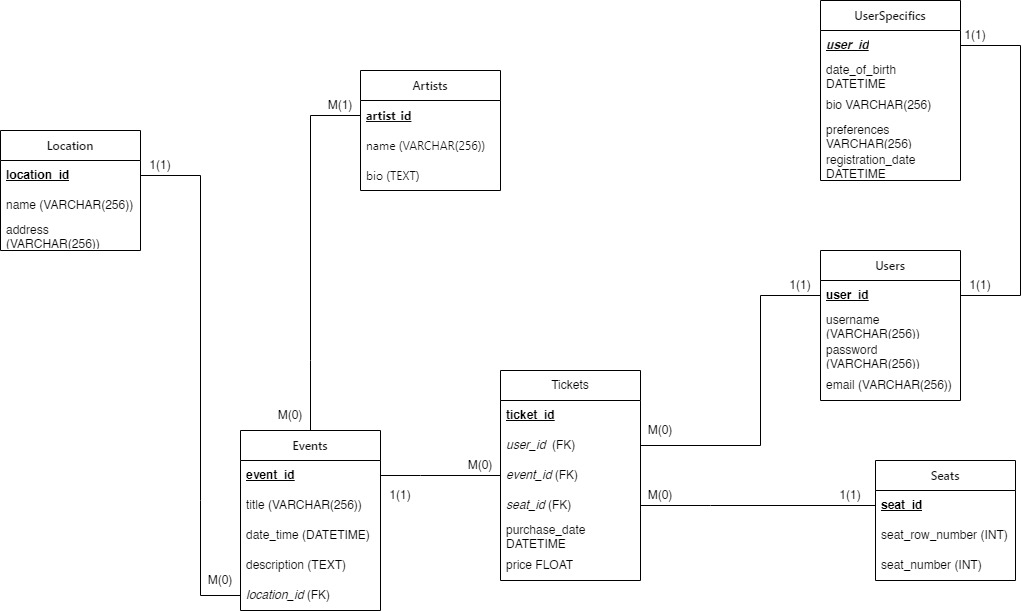
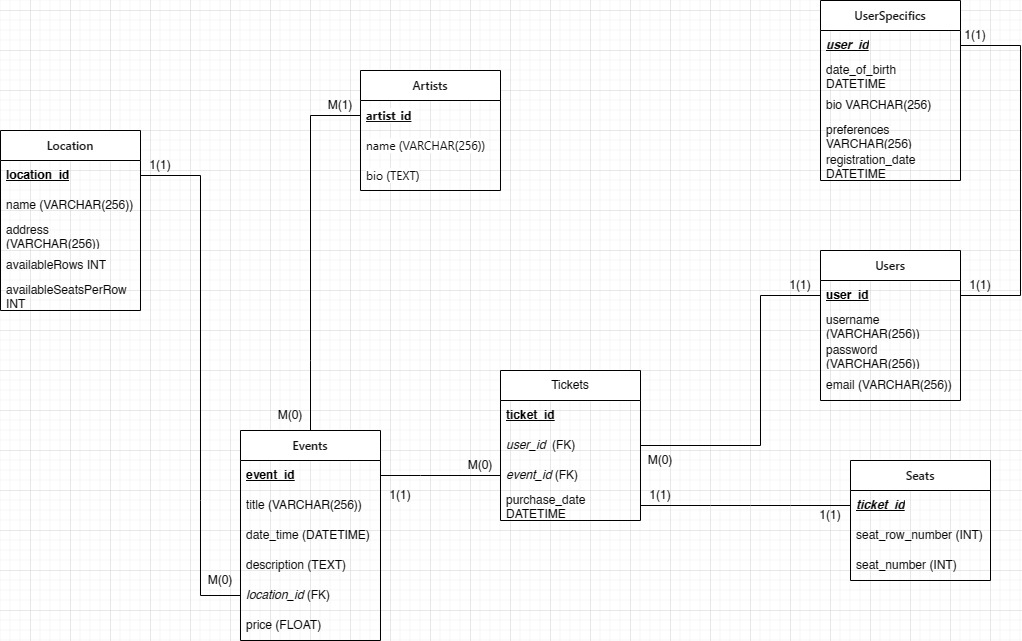
Ticket ordering for events

diff --git a/src/main/java/com/fmi/bookingshow/service/TicketService.java b/src/main/java/com/fmi/bookingshow/service/TicketService.java
@@ -1,0 +1,79 @@
+package com.fmi.bookingshow.service;
+
+import com.fmi.bookingshow.exceptions.TicketOrderException;
+import com.fmi.bookingshow.model.*;
+import com.fmi.bookingshow.repository.EventRepository;
+import com.fmi.bookingshow.repository.SeatRepository;
+import com.fmi.bookingshow.repository.TicketRepository;
+import com.fmi.bookingshow.repository.UserRepository;
+import org.springframework.stereotype.Service;
+
+import java.util.Date;
+
+@Service
+public class TicketService {
+    private final TicketRepository ticketRepository;
+    private final UserRepository userRepository;
+    private final EventRepository eventRepository;
+    private final SeatRepository seatRepository;
+
+    public TicketService(TicketRepository ticketRepository,
+                         EventRepository eventRepository,
+                         SeatRepository seatRepository,
+                         UserRepository userRepository) {
+        this.ticketRepository = ticketRepository;
+        this.eventRepository = eventRepository;
+        this.seatRepository = seatRepository;
+        this.userRepository = userRepository;
+    }
+
+    public TicketEntity orderTicketForEvent(long userId, long eventId, int seatRow, int seatNumber) throws TicketOrderException {
+        UserEntity user = userRepository.findByUserId(userId).orElse(null);
+        if (user == null) {
+            throw new TicketOrderException("User not found");
+        }
+
+        EventEntity event = eventRepository.findByEventId(eventId).orElse(null);
+        if (event == null) {
+            throw new TicketOrderException("Event not found");
+        }
+
+        // location validation (seat must be inside location limits)
+        LocationEntity location = event.getLocation();
+        if (seatRow > location.getAvailableRows()
+                || seatRow < 0
+                || seatNumber > location.getAvailableSeatsPerRow()
+                || seatNumber < 0) {
+            throw new TicketOrderException("Invalid seat data provided");
+        }
+
+        TicketEntity ticketWithSameSeat = event.getTickets()
+                .stream()
+                .filter(ticket ->
+                        ticket.getSeat().getSeatNumber() == seatNumber
+                                && ticket.getSeat().getSeatRowNumber() == seatRow
+                )
+                .findFirst()
+                .orElse(null);
+
+        if (ticketWithSameSeat != null) {
+            throw new TicketOrderException("Seat already purchased");
+        }
+
+        SeatEntity seatEntity = seatRepository.save(
+                new SeatEntity(
+                        seatRow,
+                        seatNumber
+                )
+        );
+
+        return ticketRepository.save(
+                new TicketEntity(
+                        user,
+                        seatEntity,
+                        event,
+                        new Date()
+                )
+        );
+    }
+}

diff --git a/src/main/java/com/fmi/bookingshow/service/UserService.java b/src/main/java/com/fmi/bookingshow/service/UserService.java
@@ -5,7 +5,9 @@ import com.fmi.bookingshow.constants.Role;
 import com.fmi.bookingshow.exceptions.LoginFailedException;
 import com.fmi.bookingshow.exceptions.RegistrationFailedException;
 import com.fmi.bookingshow.model.UserEntity;
+import com.fmi.bookingshow.model.UserSpecificsEntity;
 import com.fmi.bookingshow.repository.UserRepository;
+import com.fmi.bookingshow.repository.UserSpecificsRepository;
 import org.springframework.security.crypto.password.PasswordEncoder;
 import org.springframework.stereotype.Service;
 
@@ -14,13 +16,15 @@ import java.util.*;
 @Service
 public class UserService {
     private final UserRepository userRepository;
+    private final UserSpecificsRepository userSpecificsRepository;
     private final JwtSecurity jwtSecurity;
     private final PasswordEncoder passwordEncoder;
 
-    public UserService(UserRepository userRepository, JwtSecurity jwtSecurity, PasswordEncoder passwordEncoder) {
+    public UserService(UserRepository userRepository, UserSpecificsRepository userSpecificsRepository, JwtSecurity jwtSecurity, PasswordEncoder passwordEncoder) {
         this.userRepository = userRepository;
         this.jwtSecurity = jwtSecurity;
         this.passwordEncoder = passwordEncoder;
+        this.userSpecificsRepository = userSpecificsRepository;
     }
 
     public UserEntity getUserByUsername(String username) {
@@ -31,11 +35,13 @@ public class UserService {
         if (userRepository.findByUsername(userEntity.getUsername()).orElse(null) != null) {
             throw new RegistrationFailedException("User already exists");
         }
+        UserSpecificsEntity specifics = userSpecificsRepository.save(new UserSpecificsEntity());
         UserEntity userToBeRegistered = new UserEntity(
                 userEntity.getUsername(),
                 passwordEncoder.encode(userEntity.getPassword()),
                 userEntity.getEmail(),
-                Role.USER
+                Role.USER,
+                specifics
         );
         userRepository.save(userToBeRegistered);
     }
@@ -48,6 +54,6 @@ public class UserService {
         if (!passwordEncoder.matches(userEntity.getPassword(), userFromDatabase.getPassword())) {
             throw new LoginFailedException("Password authentication failed");
         }
-        return Collections.singletonMap(userEntity, jwtSecurity.generateToken(userEntity));
+        return Collections.singletonMap(userFromDatabase, jwtSecurity.generateToken(userEntity));
     }
 }

diff --git a/src/main/java/com/fmi/bookingshow/controller/TicketController.java b/src/main/java/com/fmi/bookingshow/controller/TicketController.java
@@ -1,0 +1,40 @@
+package com.fmi.bookingshow.controller;
+
+import com.fmi.bookingshow.component.ApiFactory;
+import com.fmi.bookingshow.dto.response.ResponseDto;
+import com.fmi.bookingshow.dto.ticket.TicketOrderDto;
+import com.fmi.bookingshow.dto.ticket.TicketOutputDto;
+import com.fmi.bookingshow.exceptions.TicketOrderException;
+import com.fmi.bookingshow.mapper.TicketMapper;
+import com.fmi.bookingshow.model.TicketEntity;
+import com.fmi.bookingshow.model.UserEntity;
+import com.fmi.bookingshow.service.TicketService;
+import lombok.extern.slf4j.Slf4j;
+import org.springframework.http.ResponseEntity;
+import org.springframework.security.core.Authentication;
+import org.springframework.web.bind.annotation.PostMapping;
+import org.springframework.web.bind.annotation.RequestBody;
+import org.springframework.web.bind.annotation.RestController;
+
+@RestController
+@Slf4j
+public class TicketController {
+    private final TicketService ticketService;
+    private final TicketMapper ticketMapper;
+    private final ApiFactory apiFactory;
+
+    public TicketController(TicketService ticketService, TicketMapper ticketMapper, ApiFactory apiFactory) {
+        this.ticketService = ticketService;
+        this.ticketMapper = ticketMapper;
+        this.apiFactory = apiFactory;
+    }
+
+    @PostMapping("/core/ticket/order")
+    public ResponseEntity<ResponseDto<TicketOutputDto>> orderTicket(Authentication authentication, @RequestBody TicketOrderDto ticketOrderDto) {
+        return apiFactory.create(() -> {
+            UserEntity currentUser = (UserEntity) authentication.getPrincipal();
+            TicketEntity ticketEntity = ticketService.orderTicketForEvent(currentUser.getUserId(), ticketOrderDto.eventId, ticketOrderDto.seatRow, ticketOrderDto.seatNumber);
+            return ticketMapper.ticketEntityToTicketOutput(ticketEntity);
+        }, TicketOrderException.class);
+    }
+}

diff --git a/src/main/java/com/fmi/bookingshow/configuration/SecurityConfig.java b/src/main/java/com/fmi/bookingshow/configuration/SecurityConfig.java
@@ -5,6 +5,8 @@ import com.fmi.bookingshow.constants.Role;
 import org.springframework.context.annotation.Bean;
 import org.springframework.context.annotation.Configuration;
 import org.springframework.context.annotation.Profile;
+import org.springframework.security.authorization.AuthorityAuthorizationManager;
+import org.springframework.security.authorization.AuthorizationManagers;
 import org.springframework.security.config.annotation.web.builders.HttpSecurity;
 import org.springframework.security.config.annotation.web.configuration.EnableWebSecurity;
 import org.springframework.security.crypto.bcrypt.BCryptPasswordEncoder;
@@ -41,7 +43,7 @@ public class SecurityConfig {
 
         http.authorizeHttpRequests((authorize) -> authorize
                 .requestMatchers(AUTH_WHITELIST).permitAll()
-                .requestMatchers("/core/**").hasAuthority(Role.USER)
+                .requestMatchers("/core/**").hasAnyAuthority(Role.USER, Role.ADMIN)
                 .requestMatchers("/admin/**").hasAuthority(Role.ADMIN));
 
         http.addFilterBefore(jwtFilter, UsernamePasswordAuthenticationFilter.class);

diff --git a/src/main/java/com/fmi/bookingshow/mapper/LocationMapper.java b/src/main/java/com/fmi/bookingshow/mapper/LocationMapper.java
@@ -8,10 +8,10 @@ import org.springframework.stereotype.Component;
 @Component
 public class LocationMapper {
     public LocationEntity importLocationDtoToLocationEntity(ImportLocationDto importLocationDto) {
-        return new LocationEntity(importLocationDto.name, importLocationDto.address);
+        return new LocationEntity(importLocationDto.name, importLocationDto.address, importLocationDto.availableRows, importLocationDto.availableSeatsPerRow);
     }
 
     public OutputLocationDto locationEntityToOutputLocationDto(LocationEntity location) {
-        return new OutputLocationDto(location.getLocationId(), location.getName(), location.getAddress());
+        return new OutputLocationDto(location.getLocationId(), location.getName(), location.getAddress(), location.getAvailableRows(), location.getAvailableSeatsPerRow());
     }
 }

diff --git a/src/main/java/com/fmi/bookingshow/model/SeatEntity.java b/src/main/java/com/fmi/bookingshow/model/SeatEntity.java
@@ -3,6 +3,7 @@ package com.fmi.bookingshow.model;
 import jakarta.persistence.Entity;
 import jakarta.persistence.GeneratedValue;
 import jakarta.persistence.Id;
+import jakarta.persistence.OneToOne;
 import lombok.Getter;
 import lombok.Setter;
 
@@ -15,4 +16,14 @@ public class SeatEntity {
     private Long seatId;
     private Integer seatRowNumber;
     private Integer seatNumber;
+    @OneToOne(mappedBy = "seat")
+    private TicketEntity ticketEntity;
+
+    public SeatEntity(Integer seatRowNumber, Integer seatNumber) {
+        this.seatRowNumber = seatRowNumber;
+        this.seatNumber = seatNumber;
+    }
+
+    public SeatEntity() {
+    }
 }

diff --git a/src/main/java/com/fmi/bookingshow/mapper/TicketMapper.java b/src/main/java/com/fmi/bookingshow/mapper/TicketMapper.java
@@ -1,0 +1,18 @@
+package com.fmi.bookingshow.mapper;
+
+import com.fmi.bookingshow.dto.ticket.TicketOutputDto;
+import com.fmi.bookingshow.model.TicketEntity;
+import org.springframework.stereotype.Component;
+
+@Component
+public class TicketMapper {
+    public TicketOutputDto ticketEntityToTicketOutput(TicketEntity ticketEntity) {
+        return new TicketOutputDto(
+                ticketEntity.getEvent().getEventId(),
+                ticketEntity.getSeat().getSeatRowNumber(),
+                ticketEntity.getSeat().getSeatNumber(),
+                ticketEntity.getTicketId(),
+                ticketEntity.getPurchaseDate()
+        );
+    }
+}

diff --git a/src/main/java/com/fmi/bookingshow/dto/location/ImportLocationDto.java b/src/main/java/com/fmi/bookingshow/dto/location/ImportLocationDto.java
@@ -10,10 +10,18 @@ public class ImportLocationDto {
     @NotNull
     @NotBlank
     public String address;
+    @NotNull
+    @NotBlank
+    public Integer availableRows;
+    @NotNull
+    @NotBlank
+    public Integer availableSeatsPerRow;
 
-    public ImportLocationDto(String name, String address) {
+    public ImportLocationDto(String name, String address, Integer availableRows, Integer availableSeatsPerRow) {
         this.name = name;
         this.address = address;
+        this.availableRows = availableRows;
+        this.availableSeatsPerRow = availableSeatsPerRow;
     }
 
     public ImportLocationDto() {

diff --git a/src/main/java/com/fmi/bookingshow/model/LocationEntity.java b/src/main/java/com/fmi/bookingshow/model/LocationEntity.java
@@ -15,10 +15,14 @@ public class LocationEntity {
     private Long locationId;
     private String name;
     private String address;
+    private Integer availableRows;
+    private Integer availableSeatsPerRow;
 
-    public LocationEntity(String name, String address) {
+    public LocationEntity(String name, String address, Integer availableRows, Integer availableSeatsPerRow) {
         this.name = name;
         this.address = address;
+        this.availableRows = availableRows;
+        this.availableSeatsPerRow = availableSeatsPerRow;
     }
 
     public LocationEntity() {

diff --git a/src/main/java/com/fmi/bookingshow/dto/ticket/TicketOrderDto.java b/src/main/java/com/fmi/bookingshow/dto/ticket/TicketOrderDto.java
@@ -1,0 +1,25 @@
+package com.fmi.bookingshow.dto.ticket;
+
+import jakarta.validation.constraints.NotBlank;
+import jakarta.validation.constraints.NotNull;
+
+public class TicketOrderDto {
+    @NotNull
+    @NotBlank
+    public long eventId;
+    @NotNull
+    @NotBlank
+    public int seatRow;
+    @NotNull
+    @NotBlank
+    public int seatNumber;
+
+    public TicketOrderDto() {
+    }
+
+    public TicketOrderDto(long eventId, int seatRow, int seatNumber) {
+        this.eventId = eventId;
+        this.seatRow = seatRow;
+        this.seatNumber = seatNumber;
+    }
+}

diff --git a/src/main/java/com/fmi/bookingshow/model/TicketEntity.java b/src/main/java/com/fmi/bookingshow/model/TicketEntity.java
@@ -15,10 +15,19 @@ public class TicketEntity {
     private long ticketId;
     @ManyToOne
     private UserEntity user;
-    @ManyToOne
+    @OneToOne
     private SeatEntity seat;
     @ManyToOne
     private EventEntity event;
     private Date purchaseDate;
-    private Float price;
+
+    public TicketEntity(UserEntity user, SeatEntity seat, EventEntity event, Date purchaseDate) {
+        this.user = user;
+        this.seat = seat;
+        this.event = event;
+        this.purchaseDate = purchaseDate;
+    }
+
+    public TicketEntity() {
+    }
 }

diff --git a/src/main/java/com/fmi/bookingshow/model/UserEntity.java b/src/main/java/com/fmi/bookingshow/model/UserEntity.java
@@ -38,6 +38,14 @@ public class UserEntity implements UserDetails {
     public UserEntity() {
     }
 
+    public UserEntity(String username, String password, String email, String role, UserSpecificsEntity userSpecifics) {
+        this.username = username;
+        this.password = password;
+        this.email = email;
+        this.role = role;
+        this.userSpecifics = userSpecifics;
+    }
+
     public UserEntity(String username, String password, String email, String role) {
         this.username = username;
         this.password = password;
